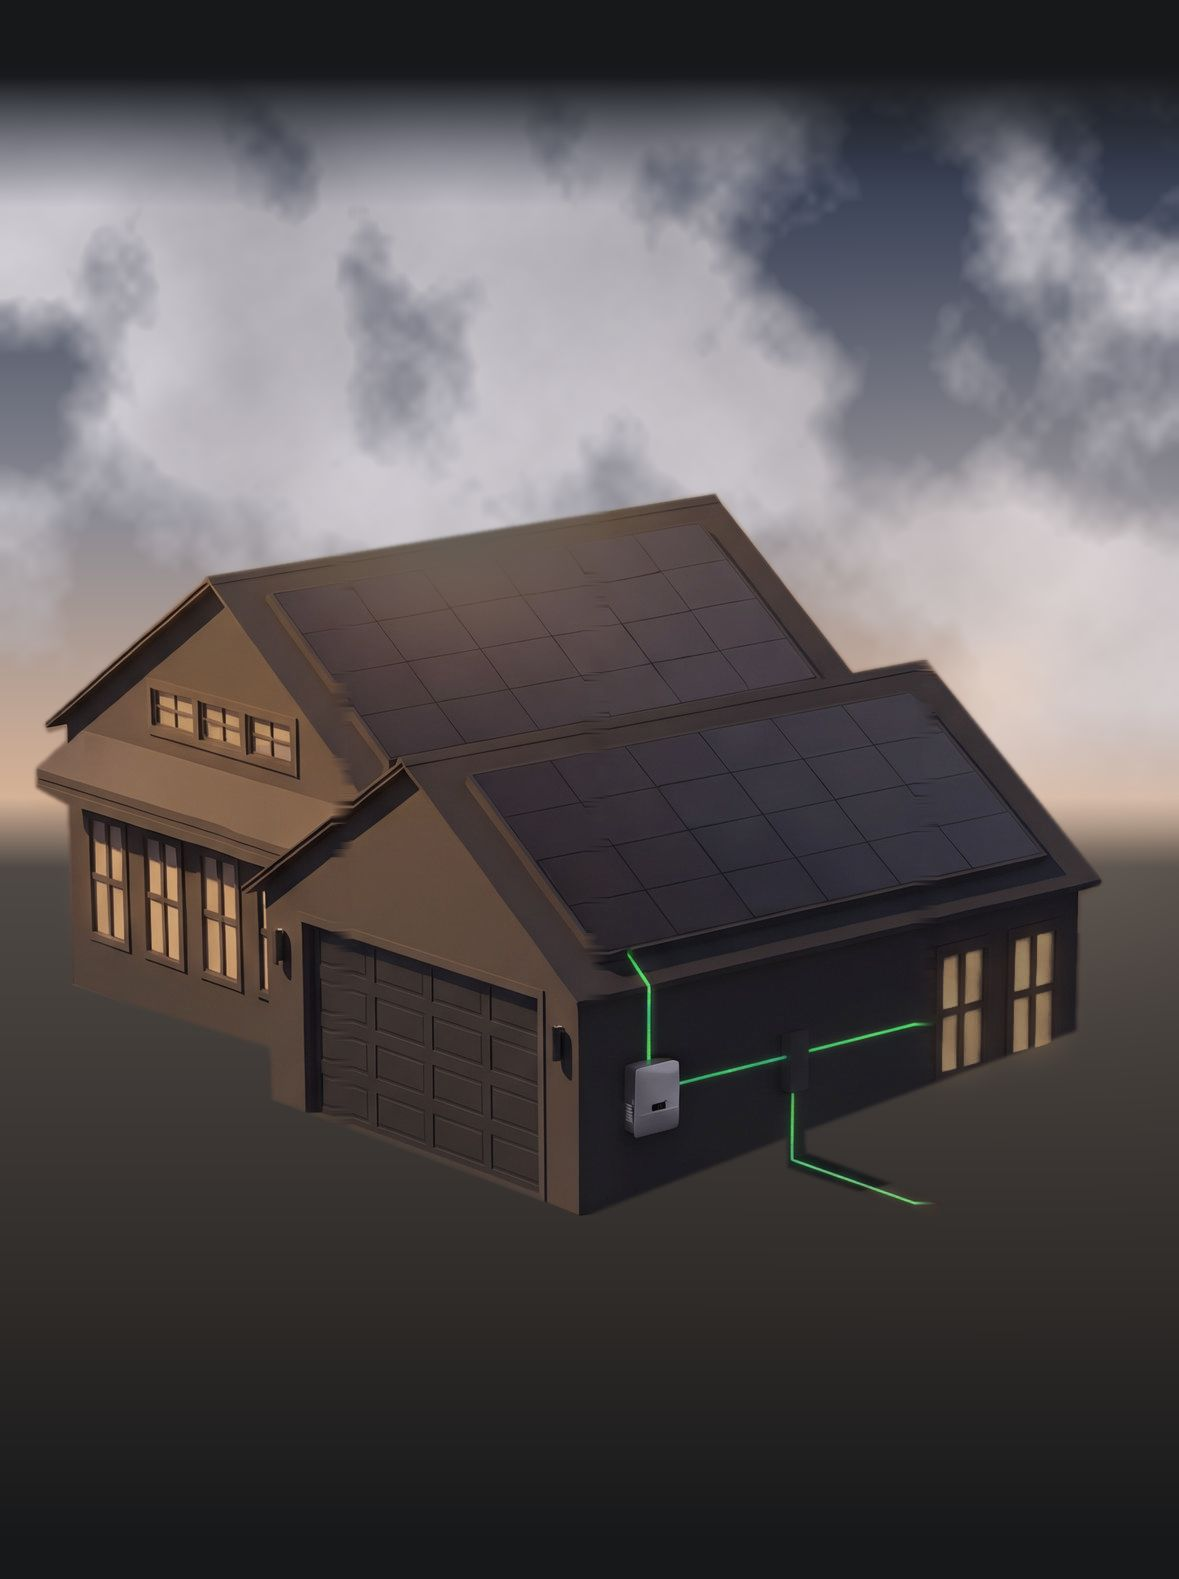
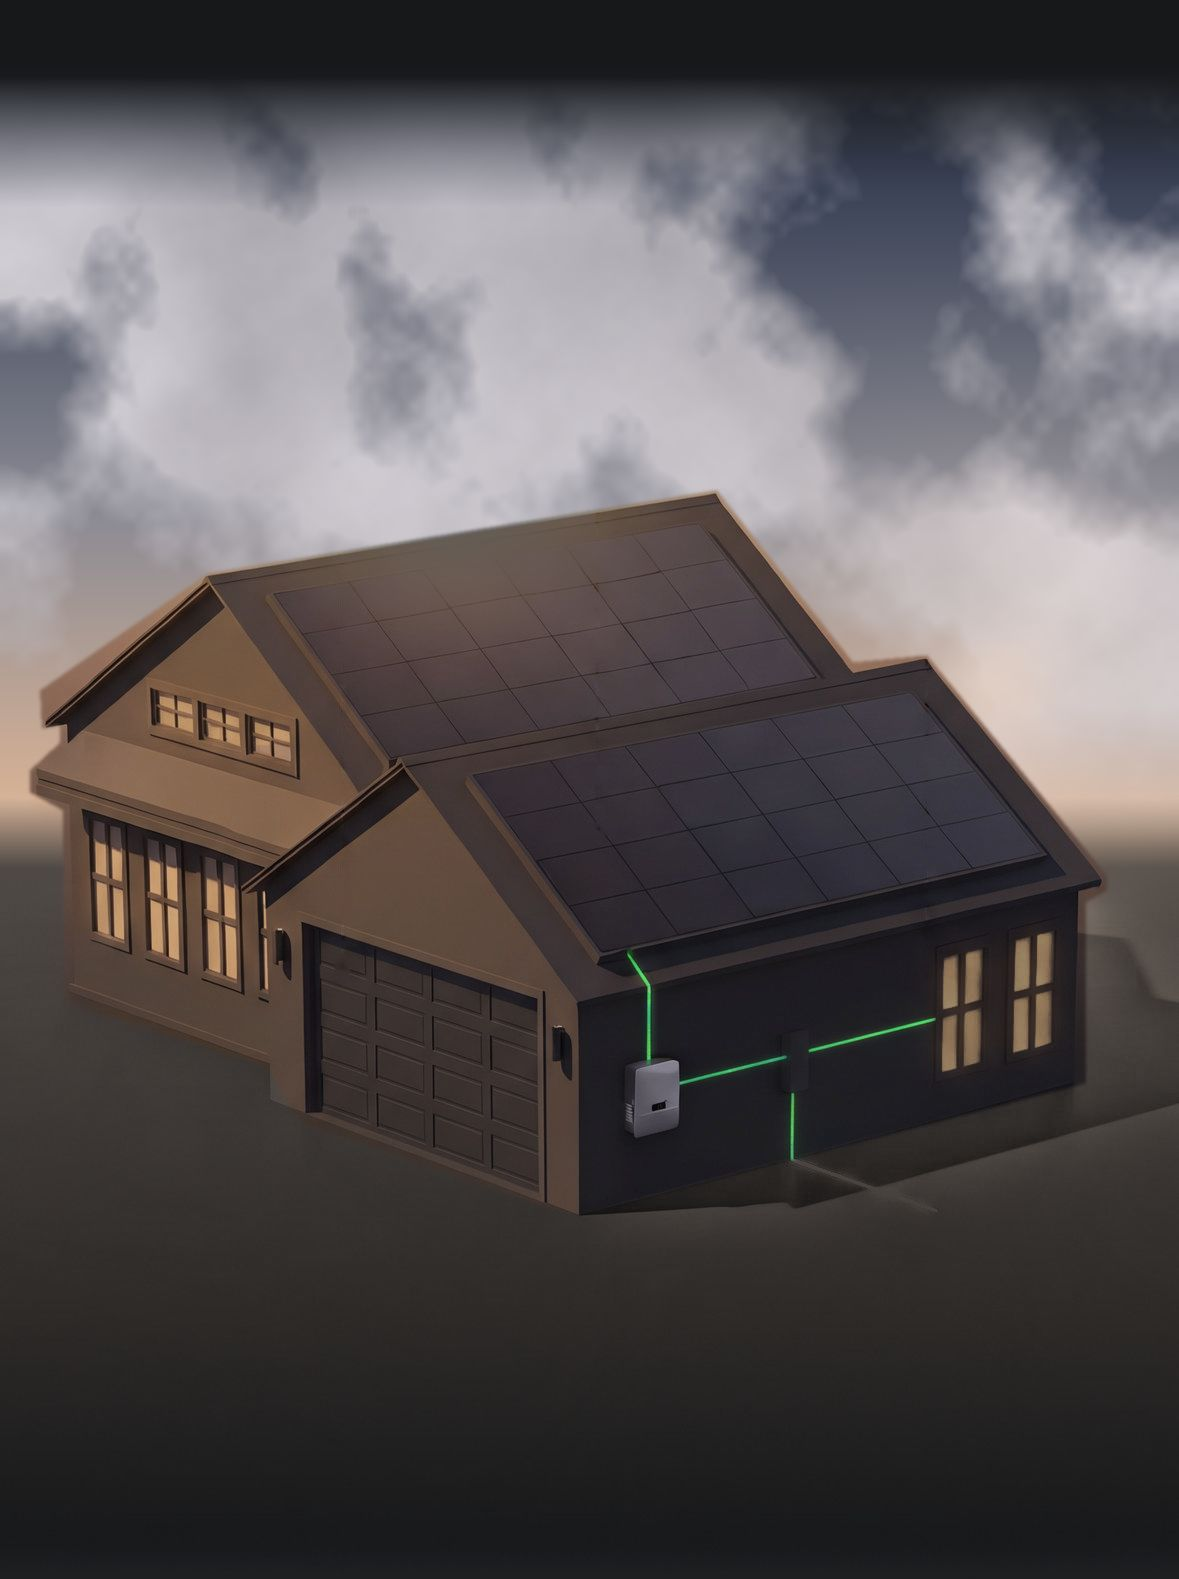
My Home sky photos: lift baked guide lines cleanly, full wall, ground shadow; app-drawn guide lines at the original spots; build 130
Claude-Session: https://claude.ai/code/session_01CD5CaXzdvWRi2hMRKsG3tP

diff --git a/Sources/App/HomeSky.swift b/Sources/App/HomeSky.swift
@@ -162,7 +162,7 @@ struct RainOverlay: View {
 struct HouseGuideLines: View {
     let width: CGFloat
     // Photo pixels: x, from y, to y (Wall Connector, Solar, Home, Grid).
-    private static let lines: [(CGFloat, CGFloat, CGFloat)] = [(342, 344, 1100), (596.5, 344, 996), (926, 344, 1208), (936.5, 1213, 1411)]
+    private static let lines: [(CGFloat, CGFloat, CGFloat)] = [(342, 344, 966), (596.5, 344, 829), (926, 344, 979), (936.5, 1232, 1412)]
 
     var body: some View {
         Canvas { ctx, _ in
@@ -172,8 +172,8 @@ struct HouseGuideLines: View {
                 p.move(to: CGPoint(x: x * k, y: a * k))
                 p.addLine(to: CGPoint(x: x * k, y: b * k))
                 ctx.stroke(p, with: .linearGradient(Gradient(stops: [.init(color: .white.opacity(0), location: 0),
-                                                                       .init(color: .white.opacity(0.3), location: 0.04),
-                                                                       .init(color: .white.opacity(0.3), location: 1)]),
+                                                                       .init(color: .white.opacity(0.25), location: 0.04),
+                                                                       .init(color: .white.opacity(0.25), location: 1)]),
                                                     startPoint: CGPoint(x: x * k, y: a * k), endPoint: CGPoint(x: x * k, y: b * k)),
                            lineWidth: 1)
             }
